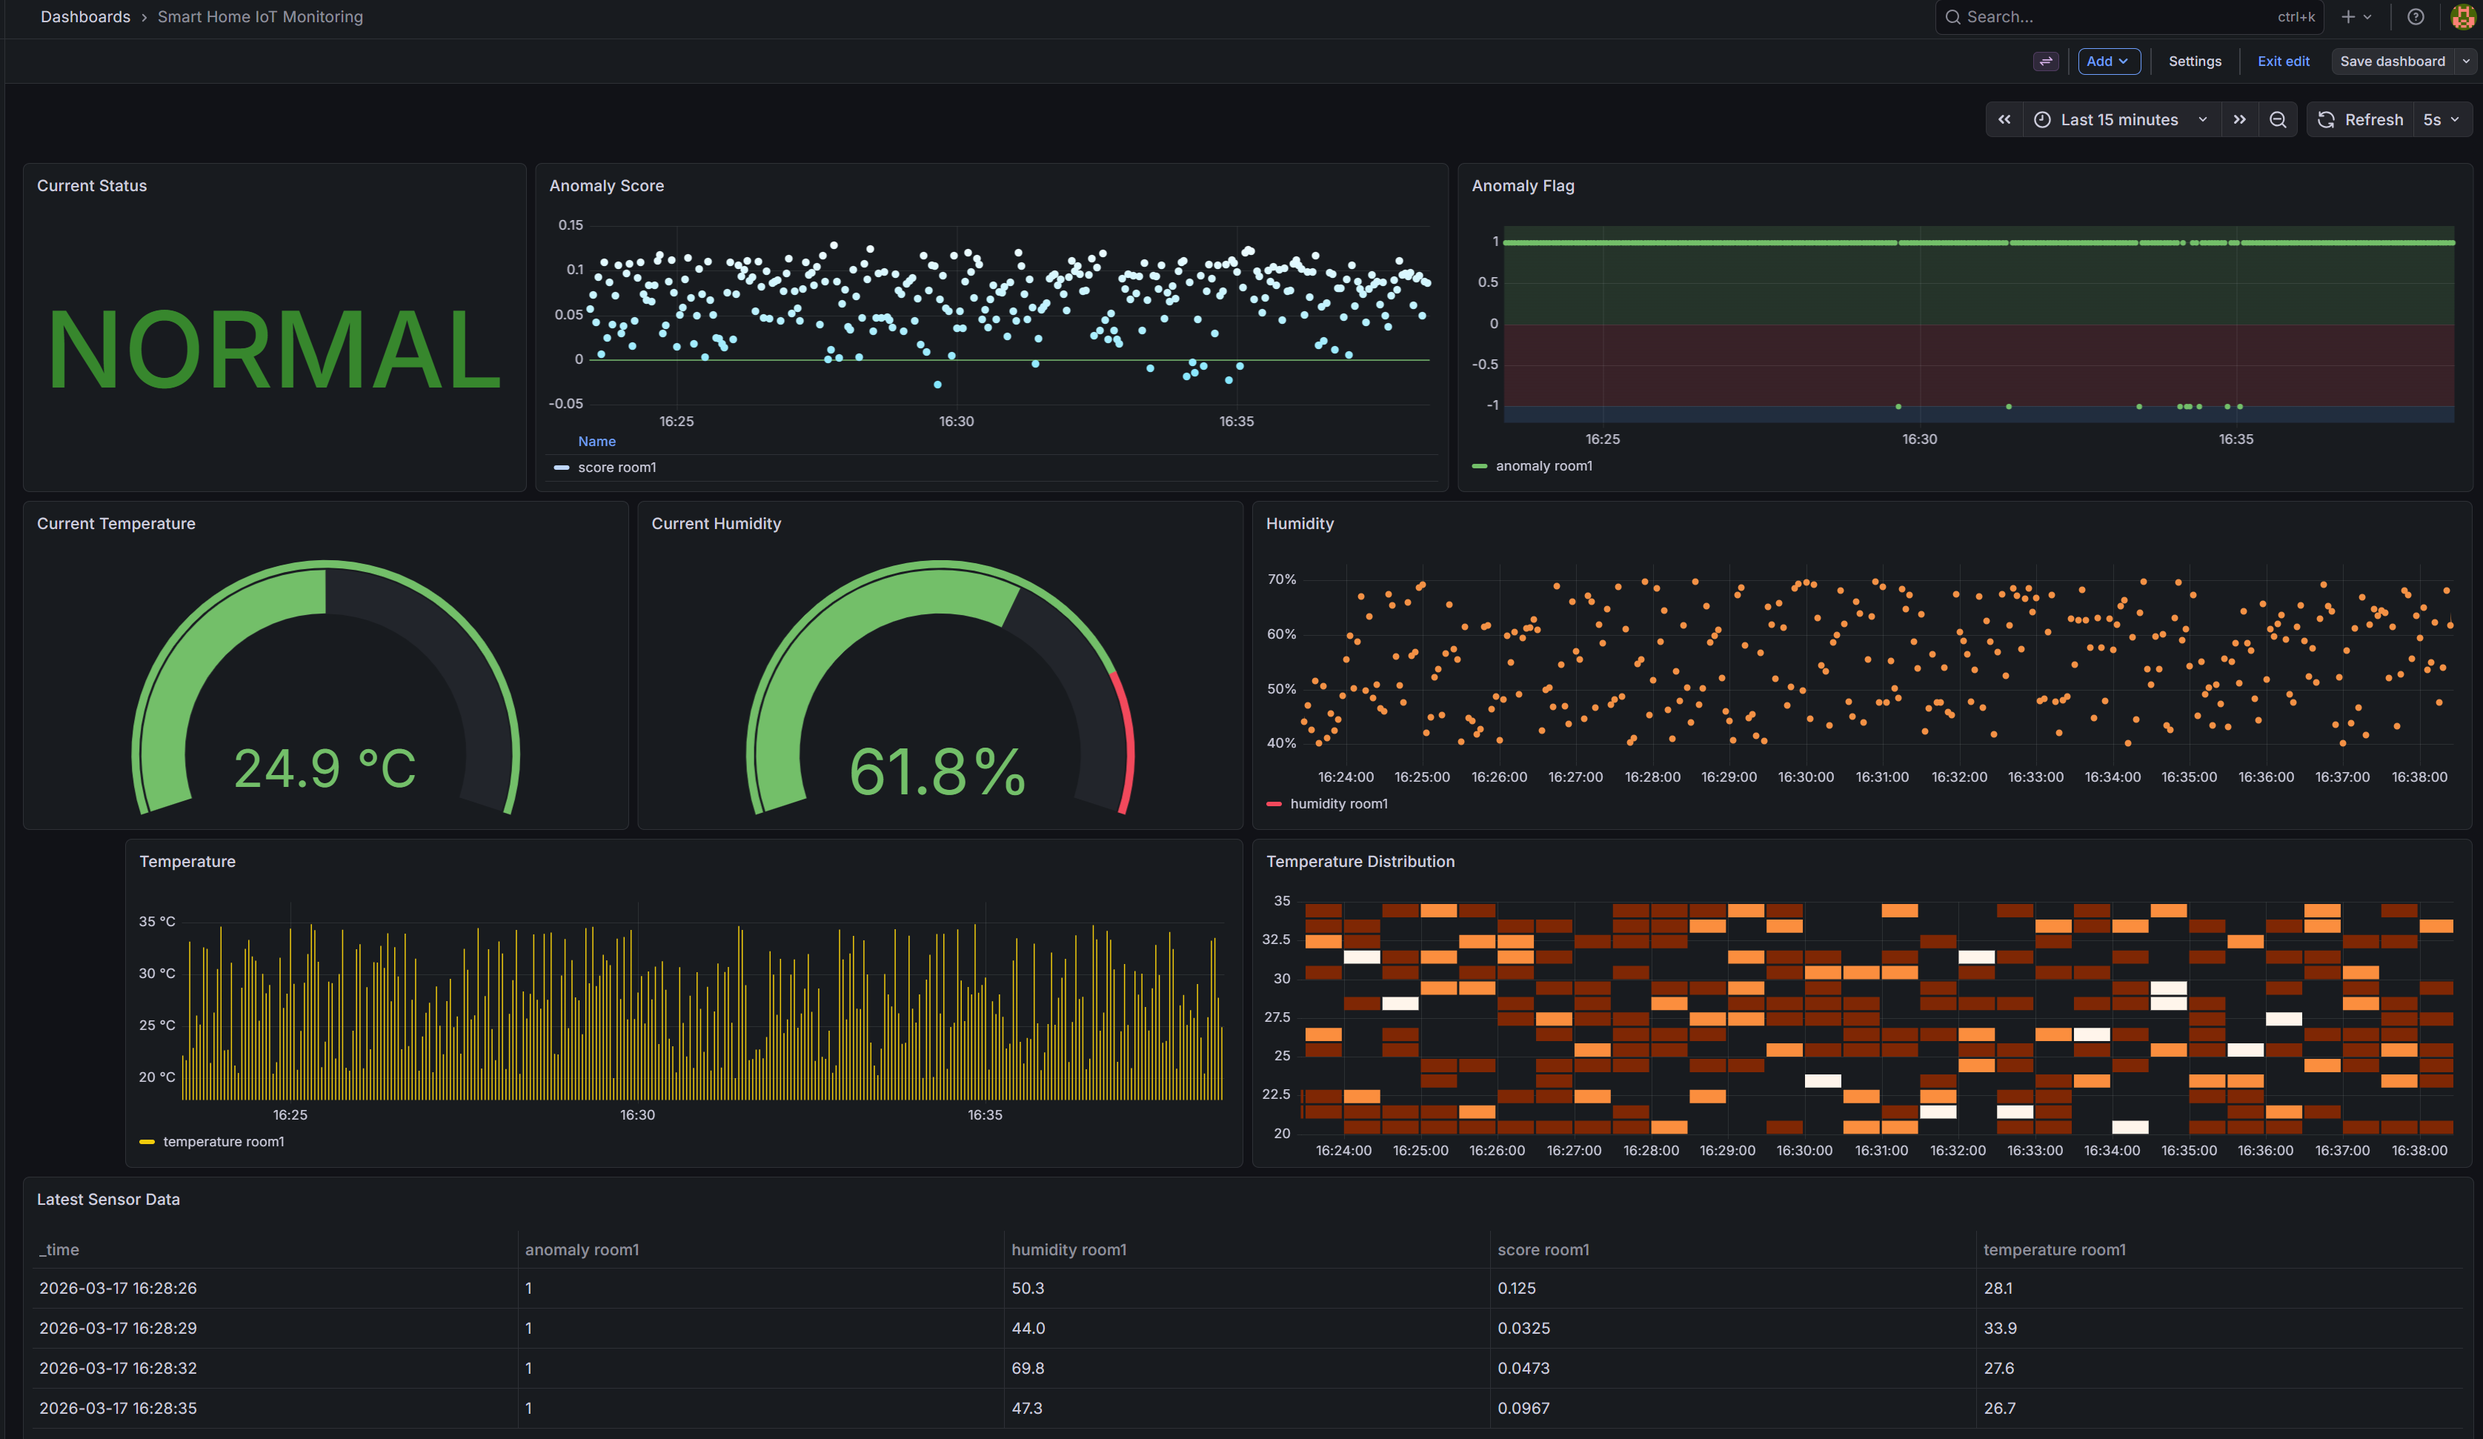
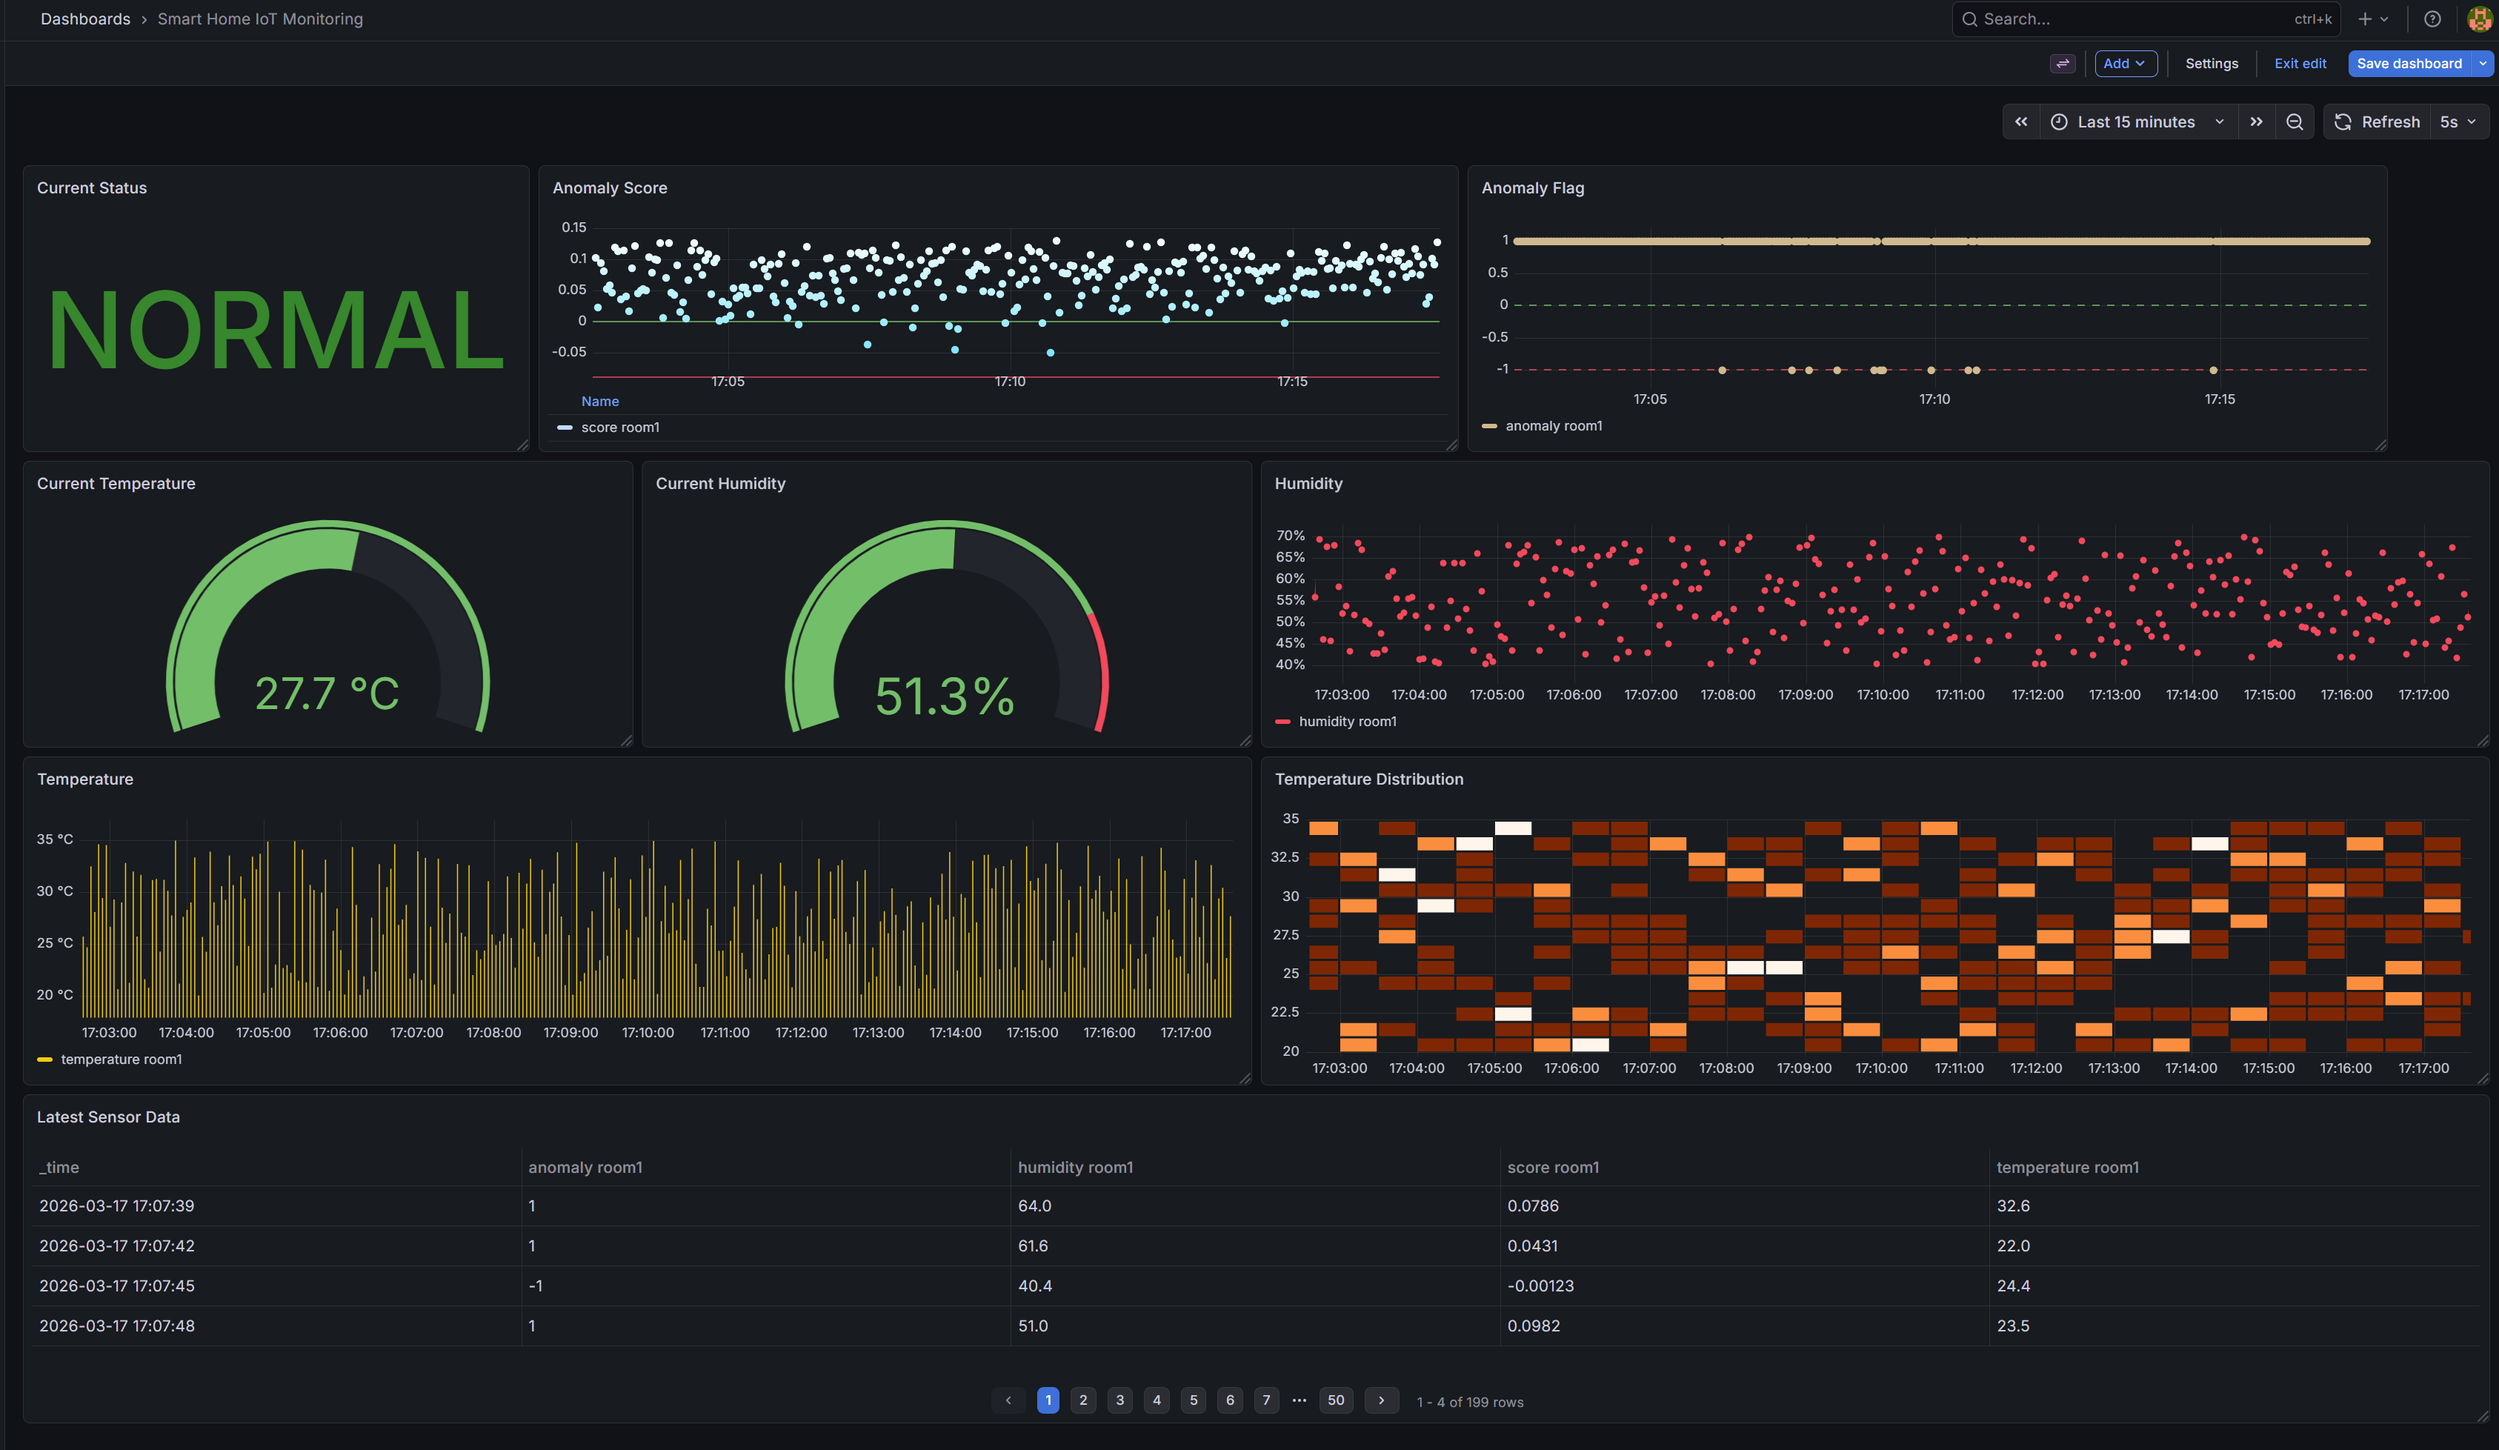
adding auto train daily using cronjob

diff --git a/services/anomaly-detection/model.py b/services/anomaly-detection/model.py
@@ -1,14 +1,41 @@
 import joblib
 import pandas as pd
 import os
+import time
 
-MODEL_PATH = os.getenv("MODEL_PATH", "model.joblib")
+MODEL_PATH = os.getenv("MODEL_PATH", "/models/model.joblib")
 
-print("Loading model:", MODEL_PATH)
+model = None
+last_loaded = 0
 
-model = joblib.load(MODEL_PATH)
+
+def load_model():
+    global model, last_loaded
+
+    print("Loading model:", MODEL_PATH)
+
+    if not os.path.exists(MODEL_PATH):
+        raise FileNotFoundError(f"Model not found at {MODEL_PATH}")
+
+    model = joblib.load(MODEL_PATH)
+    last_loaded = time.time()
+
+
+def ensure_model_loaded():
+    global model, last_loaded
+
+    # first load
+    if model is None:
+        load_model()
+
+    # hot reload every 5 minutes (optional but recommended)
+    elif time.time() - last_loaded > 300:
+        print("Reloading model...")
+        load_model()
+
 
 def detect(sample):
+    ensure_model_loaded()
 
     sample = pd.DataFrame(
         [sample],

diff --git a/services/anomaly-detection/train.py b/services/anomaly-detection/train.py
@@ -9,6 +9,8 @@ INFLUX_TOKEN = os.getenv("INFLUX_TOKEN", "xW3RESD2")
 ORG = os.getenv("INFLUX_ORG", "iot")
 BUCKET = os.getenv("INFLUX_BUCKET", "sensors")
 
+MODEL_PATH = os.getenv("MODEL_PATH", "/models/model.joblib")
+
 print("Connecting to InfluxDB")
 
 client = InfluxDBClient(
@@ -33,7 +35,6 @@ if isinstance(tables, list):
 else:
     df = tables
 
-# Keep only the ML features
 data = df[["temperature", "humidity"]].dropna()
 
 print("Training IsolationForest")
@@ -45,6 +46,9 @@ model = IsolationForest(
 
 model.fit(data)
 
-joblib.dump(model, "model.joblib")
+# ensure directory exists
+os.makedirs(os.path.dirname(MODEL_PATH), exist_ok=True)
 
-print("Model saved → model.joblib")
+joblib.dump(model, MODEL_PATH)
+
+print(f"Model saved → {MODEL_PATH}")
